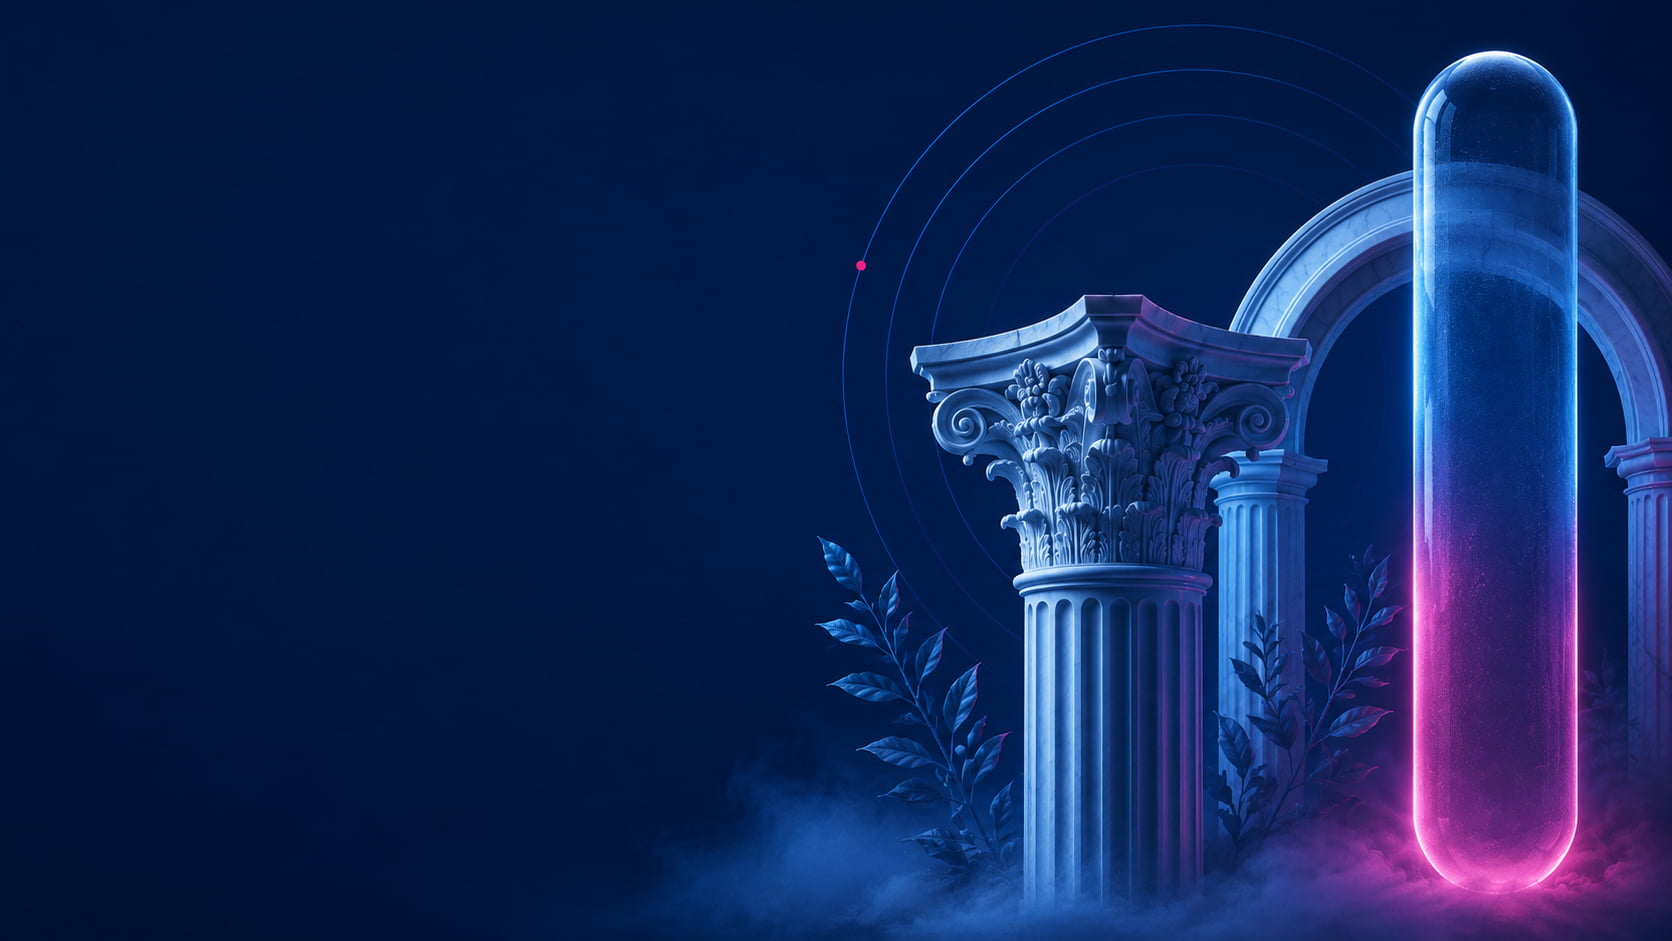
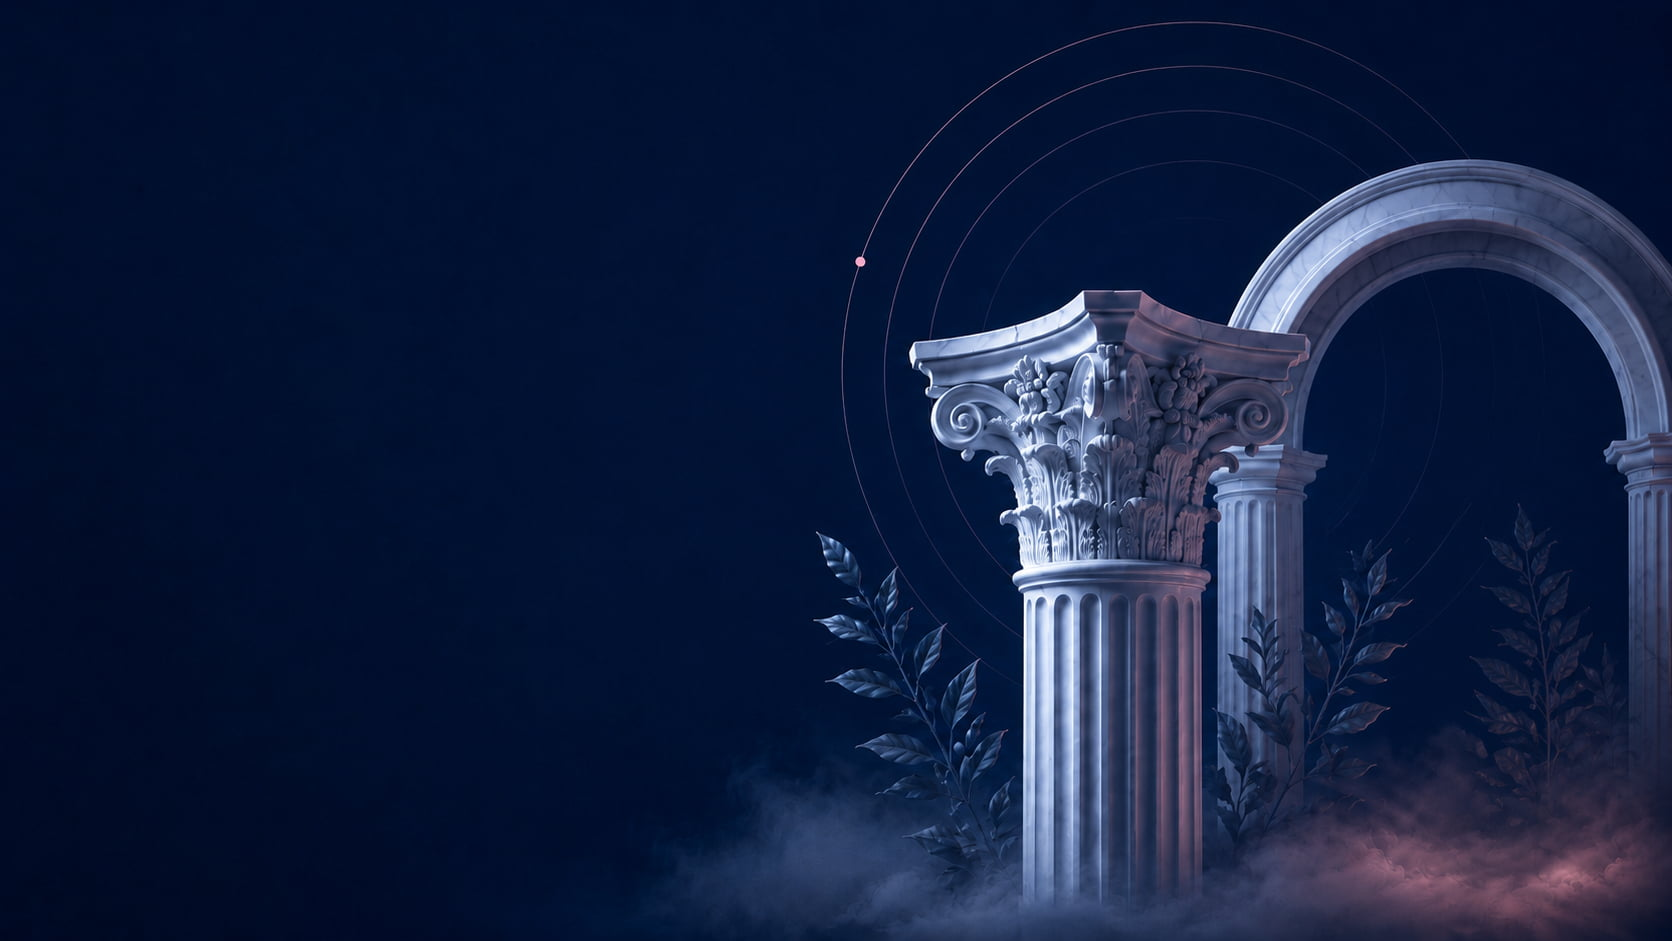
site web

diff --git a/app/globals.css b/app/globals.css
@@ -1271,7 +1271,8 @@ body:has(.home-with-cinematic-footer) {
 }
 .site-footer-desc {
   font-family: var(--sans);
-  font-size: 14px;
+  /* +15% : 14 -> 16 */
+  font-size: 16px;
   line-height: 1.7;
   color: rgba(184,184,184,0.7);
   margin-bottom: 24px;
@@ -1281,7 +1282,8 @@ body:has(.home-with-cinematic-footer) {
   align-items: center;
   gap: 8px;
   font-family: var(--sans);
-  font-size: 12px;
+  /* +15% : 12 -> 14 */
+  font-size: 14px;
   color: rgba(184,184,184,0.5);
   padding: 8px 14px;
   border: 1px solid rgba(184,184,184,0.15);
@@ -1296,7 +1298,8 @@ body:has(.home-with-cinematic-footer) {
 }
 .site-footer-col-title {
   font-family: var(--sans);
-  font-size: 11px;
+  /* +15% : 11 -> 13 */
+  font-size: 13px;
   font-weight: 600;
   letter-spacing: 0.16em;
   text-transform: uppercase;
@@ -1306,7 +1309,8 @@ body:has(.home-with-cinematic-footer) {
 .site-footer-col ul { list-style: none; display: flex; flex-direction: column; gap: 12px; }
 .site-footer-col a, .site-footer-col address {
   font-family: var(--sans);
-  font-size: 14px;
+  /* +15% : 14 -> 16 */
+  font-size: 16px;
   font-style: normal;
   color: rgba(184,184,184,0.7);
   text-decoration: none;
@@ -1326,7 +1330,8 @@ body:has(.home-with-cinematic-footer) {
   padding-top: 28px;
   border-top: 1px solid rgba(184,184,184,0.12);
   font-family: var(--sans);
-  font-size: 12px;
+  /* +15% : 12 -> 14 */
+  font-size: 14px;
   color: rgba(184,184,184,0.5);
 }
 .site-footer-legal { display: flex; gap: 24px; flex-wrap: wrap; }
@@ -4385,21 +4390,32 @@ body:has(.home-with-cinematic-footer) {
 
 /* ===========================================================
    TRANSITION methode-intro -> ETAPE 01
-   La section "Chaque étape a un objectif" (.methode-intro) a un fond cream,
-   l'etape 1 a une image lavande pale. On fond la fin de l'intro vers
-   transparent pour creer une transition douce vers l'image. */
-.methode-intro {
-  position: relative;
+   Approche mask-image : la PREMIERE FlowSection (et seulement elle)
+   recoit un fondu en haut : transparent sur les 120 premiers pixels,
+   puis opaque. Resultat : l'image de l'etape 1 apparait progressivement
+   depuis le cream de la section .methode-intro qui la precede. */
+[data-flow-section]:first-of-type {
+  -webkit-mask-image: linear-gradient(
+    to bottom,
+    transparent 0%,
+    rgba(0,0,0,1) 120px,
+    rgba(0,0,0,1) 100%
+  );
+          mask-image: linear-gradient(
+    to bottom,
+    transparent 0%,
+    rgba(0,0,0,1) 120px,
+    rgba(0,0,0,1) 100%
+  );
 }
-.methode-intro::after {
-  content: '';
-  position: absolute;
-  bottom: 0;
-  left: 0; right: 0;
-  height: 140px;
-  background: linear-gradient(to bottom, transparent 0%, var(--cream) 100%);
-  pointer-events: none;
-  /* Le fade descend vers le cream pour que la fin de l'intro se fond
-     visuellement avec ce qui suit (FlowArt). */
-  opacity: 0.5;
+
+/* ===========================================================
+   FOOTER CINEMATIQUE (home page) — +15% sur tous les textes
+   Le CinematicFooter utilise Tailwind, on rescale via font-size root */
+.cinematic-footer-wrapper {
+  /* +15% : tous les rem/em internes s'agrandissent automatiquement */
+  font-size: 18.4px; /* 16 * 1.15 */
 }
+.cinematic-footer-wrapper .text-xs { font-size: 0.85rem !important; /* +15% de 0.75rem */ }
+.cinematic-footer-wrapper .text-sm { font-size: 1rem !important; /* +15% de 0.875rem */ }
+.cinematic-footer-wrapper .text-base { font-size: 1.15rem !important; /* +15% de 1rem */ }

diff --git a/app/methode/page.tsx b/app/methode/page.tsx
@@ -1,6 +1,5 @@
 import Link from 'next/link';
 import FlowArt, { FlowSection } from '@/components/ui/story-scroll';
-import { DynamicIslandTOC } from '@/components/ui/dynamic-island-toc';
 
 export const metadata = {
   title: 'Méthode | Comment on travaille',
@@ -245,7 +244,7 @@ export default function MethodePage() {
         </FlowArt>
       </article>
 
-      <DynamicIslandTOC selector="article h2" accentColor="var(--pink)" />
+      {/* Widget DynamicIslandTOC retire sur demande utilisateur */}
 
       {/* BANNIERE IMAGE PURE : remplace l'ancienne section "Ce qu'on ne fera jamais".
           L'image contient deja son propre texte/icones integres, on n'ajoute rien par-dessus. */}
